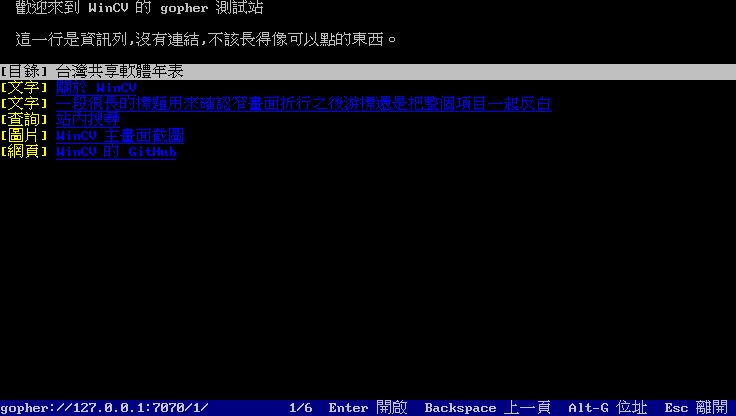
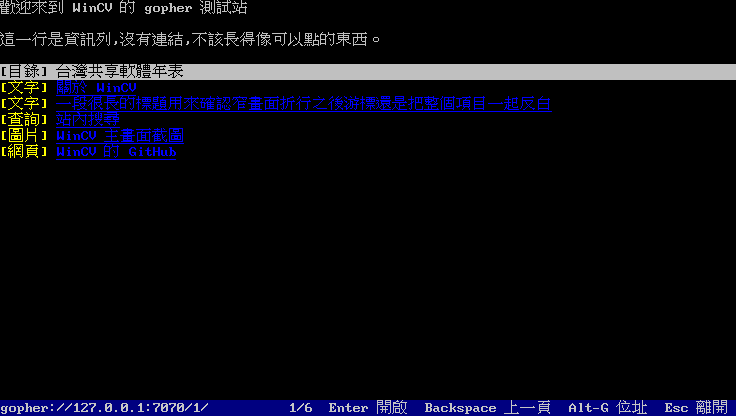
資訊列改用 Pre:站台自己排的版面不該被動到
對真實站台(gopher.floodgap.com)測過才發現的:資訊列本來走 List,
而 List 一定會在前面加東西 —— 給空字串它就落回預設的項目符號,
於是整份 ASCII banner 每一列前面都多一個 •,版面整個歪掉。

改成 Pre(原樣輸出、不加前綴、不重新斷行),並讓排版引擎不要在 Pre
之前插空行 —— Pre 的意思就是「呼叫端已經排好版」,再自己加空白
就是在猜它的意圖。markdown 的解析器不產生 Pre,所以這一條不影響 .md。

floodgap 那份 "OVER 20 YEARS SERVING YOU!" 的方框現在與伺服器送來的
逐字元一致。證據在 docs/ui/gopher-real.png。

這個問題我自己寫的測試伺服器抓不到 —— 它沒有 ASCII 排版。
只有連真站才看得見。

Changed region(s): [[0.0, 0.0625, 0.5312, 0.125], [0.0, 0.0, 0.375, 0.0312]]

diff --git a/internal/gopher/gopher_test.go b/internal/gopher/gopher_test.go
@@ -127,11 +127,15 @@ func TestMenuBlocks(t *testing.T) {
 	if len(blocks) != 7 {
 		t.Fatalf("%d 個區塊,期望 7", len(blocks))
 	}
-	// 全部都是 List —— 排版引擎在連續的 List 之間不插空行,選單要單倍行距。
+	// 連結是 List(排版引擎在連續的 List 之間不插空行,選單要單倍行距),
+	// 資訊列是 Pre(原樣輸出,不加項目符號 —— 那是站台自己排的版面)。
 	for i, b := range blocks {
-		if b.Kind != markdown.List {
-			t.Fatalf("第 %d 個區塊是 %v,不是 List", i, b.Kind)
+		if b.Kind != markdown.List && b.Kind != markdown.Pre {
+			t.Fatalf("第 %d 個區塊是 %v", i, b.Kind)
 		}
+	}
+	if blocks[0].Kind != markdown.Pre || blocks[0].Lines[0] != "Welcome to the test server" {
+		t.Fatalf("資訊列應該是原樣的 Pre,得到 %+v", blocks[0])
 	}
 	if got := blocks[2].Marker; got != "[目錄] " {
 		t.Errorf("目錄的標籤是 %q", got)
@@ -140,9 +144,9 @@ func TestMenuBlocks(t *testing.T) {
 		sp.Href != "gopher://example.org/1/docs" {
 		t.Errorf("連結不對: %+v", sp)
 	}
-	// 資訊列不給 Href,也不給型別標籤 —— 不該長得像可以點的東西。
-	if sp := blocks[0].Spans[0]; sp.Href != "" || sp.Style&markdown.Link != 0 {
-		t.Errorf("資訊列不該是連結: %+v", sp)
+	// 資訊列不給 Href 也不給標籤 —— 不該長得像可以點的東西。
+	if len(blocks[0].Spans) != 0 || blocks[0].Marker != "" {
+		t.Errorf("資訊列不該有 span 或標籤: %+v", blocks[0])
 	}
 }
 

diff --git a/internal/gopher/doc.go b/internal/gopher/doc.go
@@ -62,10 +62,11 @@ func MenuBlocks(items []Item) []markdown.Block {
 	out := make([]markdown.Block, 0, len(items))
 	for _, it := range items {
 		if !it.IsLink() {
-			// 資訊列常常拿來排版(空行、置中的橫線),原樣留著。
+			// 資訊列用 Pre:原樣輸出,不加項目符號也不縮排。
+			// 那是站台作者自己排的版面(橫線、置中的標題、ASCII banner),
+			// 前面多任何一個字元都會把它推歪。
 			out = append(out, markdown.Block{
-				Kind: markdown.List, Marker: "  ",
-				Spans: []markdown.Span{{Text: it.Display}},
+				Kind: markdown.Pre, Lines: []string{it.Display},
 			})
 			continue
 		}

diff --git a/internal/markdown/layout.go b/internal/markdown/layout.go
@@ -89,8 +89,11 @@ func Layout(blocks []Block, cols, cellW, cellH int, load Loader, t Theme) ([]Lin
 	blank := func() { out = append(out, Line{}) }
 
 	for bi, b := range blocks {
-		if bi > 0 && b.Kind != List {
+		if bi > 0 && b.Kind != List && b.Kind != Pre {
 			// 清單項目之間不空行,其餘區塊之間空一行。
+			//
+			// Pre 也不空行:那是「呼叫端已經排好版」的意思,
+			// 排版引擎再自己加空白就是在猜它的意圖。
 			if prev := blocks[bi-1]; !(prev.Kind == List && b.Kind == List) {
 				blank()
 			}
